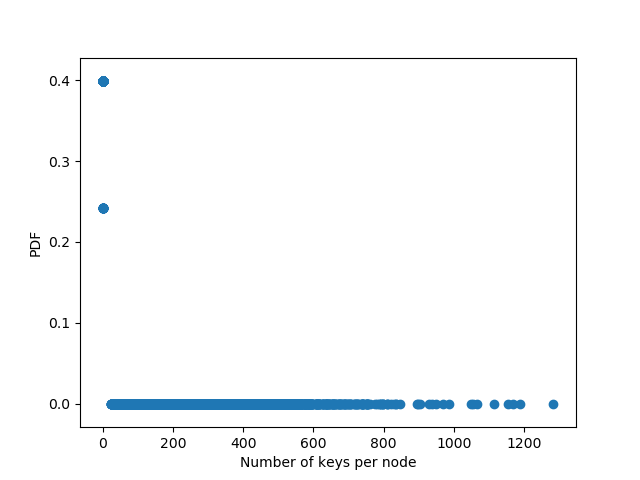
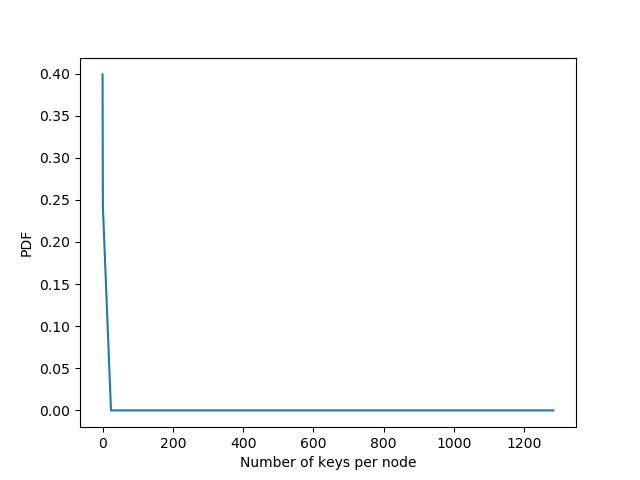
changed pdf charts to line plots

diff --git a/lib/simulations/graph_results.py b/lib/simulations/graph_results.py
@@ -43,7 +43,8 @@ def path_length_pdf() -> None:
         for line in plr.readlines():
             k = line
         k = extract_tuple_values(k)[1]
-        plt.scatter(k, norm.pdf(k))
+        k.sort()
+        plt.plot(k, norm.pdf(k))
         plt.ylabel("PDF")
         plt.xlabel("Path length")
         plt.show()
@@ -74,7 +75,8 @@ def load_balance_pdf() -> None:
         # ax = plt.gca()
         # filtered_pdf = [x if x < 0.2 else 0 for x in norm.pdf(keys)]
         # print(max(filtered_pdf))
-        plt.scatter(keys, norm.pdf(keys))
+        keys.sort()
+        plt.plot(keys, norm.pdf(keys))
         # plt.yscale('log')
         # ymin, ymax = plt.ylim()
         # plt.ylim(0, 9 ** -131)
@@ -86,7 +88,7 @@ def load_balance_pdf() -> None:
 
 if __name__ == '__main__':
     # path_length_network_size()
-    # path_length_pdf()
-    load_balance_network_size()
+    path_length_pdf()
+    # load_balance_network_size()
     # load_balance_pdf()
 
